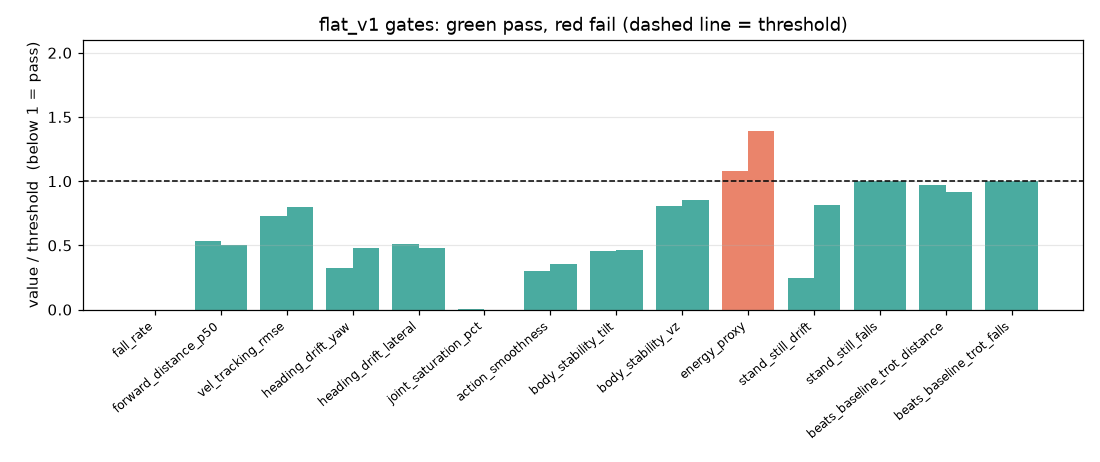
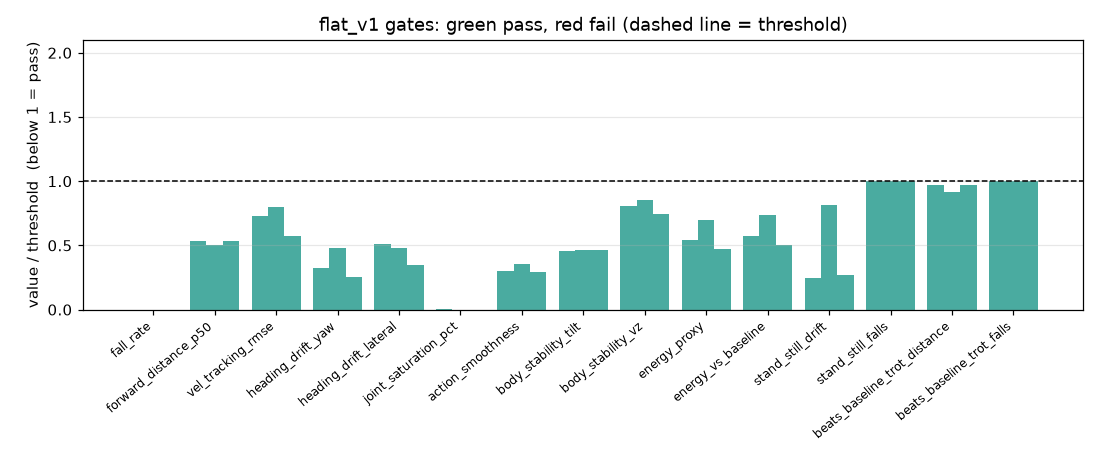
docs: gate audit + loop fixes chapter, run 3 (warm start) in the ledger, figures re-rendered; render_docs scans run dirs

diff --git a/documentation/index.html b/documentation/index.html
@@ -258,13 +258,13 @@ figcaption{margin-top:.8rem;font-size:.82rem;color:var(--ink-soft);text-align:ce
       <h1>Bittle Agent — Working Documentation</h1>
       <p class="sub">The living record of the Petoi Bittle X control plane and its RL walking trainer: what was built, every training run, what is verified, what is still open.</p>
     </div>
-    <span class="stamp"><span class="freshness lede" data-ts="2026-09-07T23:50:40.190333+00:00"></span>generated 2026-09-07 23:50 UTC · do not edit by hand</span>
+    <span class="stamp"><span class="freshness lede" data-ts="2026-09-08T00:09:57.811074+00:00"></span>generated 2026-09-08 00:09 UTC · do not edit by hand</span>
   </div>
 </header>
 <div class="shell">
   <nav class="toc" aria-label="Contents">
     <h2>Contents</h2>
-    <ol><li class="part" title="">Orientation</li><li><a class="chapter" href="#how-to-use-this"><span class="num">1</span><span class="title-text">How to use this</span><span class="status s-muted">reference</span><span class="freshness badge" data-ts="2026-09-07T16:43:13-07:00"></span></a></li><li><a class="sub" href="#the-rule">The rule</a></li><li><a class="sub" href="#writing-a-chapter">Writing a chapter</a></li><li><a class="sub" href="#building-and-reading-it">Building and reading it</a></li><li><a class="sub" href="#what-does-not-belong-here">What does not belong here</a></li><li class="part" title="">RL walking trainer</li><li><a class="chapter" href="#rl-walking-training"><span class="num">2</span><span class="title-text">Teaching Bittle to walk: the RL training loop</span><span class="status s-ok">shipped</span><span class="freshness badge" data-ts="2026-09-07T23:50:40.190333+00:00"></span></a></li><li><a class="sub" href="#1-what-was-built">1. What was built</a></li><li><a class="sub" href="#2-the-simulated-robot">2. The simulated robot</a></li><li><a class="sub" href="#3-what-the-policy-sees-and-does">3. What the policy sees and does</a></li><li><a class="sub" href="#4-training-results-so-far">4. Training results so far</a></li><li><a class="sub" href="#5-the-agents-loop-as-it-actually-happened">5. The agent&#x27;s loop, as it actually happened</a></li><li><a class="sub" href="#6-running-it">6. Running it</a></li><li><a class="sub" href="#7-sizing-and-box-choice">7. Sizing and box choice</a></li><li><a class="sub" href="#8-not-done-yet">8. Not done yet</a></li><li><a class="chapter" href="#training-run-ledger"><span class="num">3</span><span class="title-text">Training run ledger</span><span class="status s-ok">shipped</span><span class="freshness badge" data-ts="2026-09-07T16:43:13-07:00"></span></a></li><li><a class="sub" href="#runs-in-the-store-2-runs">Runs in the store (2 runs)</a></li><li><a class="sub" href="#runs-outside-the-store-development-smoke-tests-2026-09-07">Runs outside the store (development smoke tests, 2026-09-07)</a></li></ol>
+    <ol><li class="part" title="">Orientation</li><li><a class="chapter" href="#how-to-use-this"><span class="num">1</span><span class="title-text">How to use this</span><span class="status s-muted">reference</span><span class="freshness badge" data-ts="2026-09-07T16:43:13-07:00"></span></a></li><li><a class="sub" href="#the-rule">The rule</a></li><li><a class="sub" href="#writing-a-chapter">Writing a chapter</a></li><li><a class="sub" href="#building-and-reading-it">Building and reading it</a></li><li><a class="sub" href="#what-does-not-belong-here">What does not belong here</a></li><li class="part" title="">RL walking trainer</li><li><a class="chapter" href="#rl-walking-training"><span class="num">2</span><span class="title-text">Teaching Bittle to walk: the RL training loop</span><span class="status s-ok">shipped</span><span class="freshness badge" data-ts="2026-09-08T00:00:01.899894+00:00"></span></a></li><li><a class="sub" href="#1-what-was-built">1. What was built</a></li><li><a class="sub" href="#2-the-simulated-robot">2. The simulated robot</a></li><li><a class="sub" href="#3-what-the-policy-sees-and-does">3. What the policy sees and does</a></li><li><a class="sub" href="#4-training-results-so-far">4. Training results so far</a></li><li><a class="sub" href="#5-the-agents-loop-as-it-actually-happened">5. The agent&#x27;s loop, as it actually happened</a></li><li><a class="sub" href="#6-running-it">6. Running it</a></li><li><a class="sub" href="#7-sizing-and-box-choice">7. Sizing and box choice</a></li><li><a class="sub" href="#8-not-done-yet">8. Not done yet</a></li><li><a class="chapter" href="#training-run-ledger"><span class="num">3</span><span class="title-text">Training run ledger</span><span class="status s-ok">shipped</span><span class="freshness badge" data-ts="2026-09-08T00:09:57.811074+00:00"></span></a></li><li><a class="sub" href="#runs-in-the-store-3-runs">Runs in the store (3 runs)</a></li><li><a class="sub" href="#runs-outside-the-store-development-smoke-tests-2026-09-07">Runs outside the store (development smoke tests, 2026-09-07)</a></li><li><a class="chapter" href="#gate-audit-and-loop-fixes-2026-09-07"><span class="num">4</span><span class="title-text">The gate that failed was the gate, not the robot (audit + loop fixes)</span><span class="status s-ok">shipped</span><span class="freshness badge" data-ts="2026-09-08T00:05:50.991932+00:00"></span></a></li><li><a class="sub" href="#the-question">The question</a></li><li><a class="sub" href="#finding-1-the-energy-threshold-was-a-guess-and-the-plan-said-so">Finding 1: the energy threshold was a guess, and the plan said so</a></li><li><a class="sub" href="#finding-2-the-llm-was-told-raise-the-energy-penalty-but-not-by-how-much">Finding 2: the LLM was told &quot;raise the energy penalty&quot; but not by how much</a></li><li><a class="sub" href="#finding-3-every-cycle-re-trained-from-scratch">Finding 3: every cycle re-trained from scratch</a></li><li><a class="sub" href="#finding-4-a-flaky-service-test-was-a-real-race">Finding 4: a flaky service test was a real race</a></li><li><a class="sub" href="#run-3-the-fixes-in-one-cycle">Run 3: the fixes in one cycle</a></li><li><a class="sub" href="#how-to-read-the-results-page-from-now-on">How to read the results page from now on</a></li></ol>
   </nav>
   <main><div class="part-divider"><h2>Orientation</h2></div>
 <section class="chapter" id="how-to-use-this"><span class="freshness" data-ts="2026-09-07T16:43:13-07:00"></span><p class="eyebrow">Orientation<span class="sep">·</span>Chapter 1</p><p class="statusbar"><span class="status s-muted">reference</span><span class="meta-pill">updated 2026-09-07</span></p><h1 id="how-to-use-this">How to use this</h1>
@@ -311,7 +311,7 @@ python3 documentation/serve.py --open        # read it locally on :8900</code></
 <li><strong>Anything in a repo that serves no documentation.</strong> Write it where it can be read, and name the other service in the text instead.</li>
 </ul></section>
 <div class="part-divider"><h2>RL walking trainer</h2></div>
-<section class="chapter" id="rl-walking-training"><span class="freshness" data-ts="2026-09-07T23:50:40.190333+00:00"></span><p class="eyebrow">RL walking trainer<span class="sep">·</span>Chapter 2</p><p class="statusbar"><span class="status s-ok">shipped</span><span class="meta-pill">updated 2026-09-07</span></p><h1 id="teaching-bittle-to-walk-the-rl-training-loop">Teaching Bittle to walk: the RL training loop</h1>
+<section class="chapter" id="rl-walking-training"><span class="freshness" data-ts="2026-09-08T00:00:01.899894+00:00"></span><p class="eyebrow">RL walking trainer<span class="sep">·</span>Chapter 2</p><p class="statusbar"><span class="status s-ok">shipped</span><span class="meta-pill">updated 2026-09-07</span></p><h1 id="teaching-bittle-to-walk-the-rl-training-loop">Teaching Bittle to walk: the RL training loop</h1>
 <p><em>Status 2026-09-07. Everything below was measured on the WSL2 dev PC (RTX 3090 Ti) unless marked otherwise.</em></p>
 <p>Yes — the walking training has run. Two policies exist, both walk, and the GLM agent drove the second one itself. This page is the reference for how the loop works, what the numbers mean, and how to run it.</p>
 <div class="scroll-x"><table><thead><tr><th>Petoi trot (firmware gait, replayed)</th><th>Policy r1, 40M steps (defaults)</th><th>Policy r2, GLM's own cycle</th></tr></thead><tbody><tr><td><img src="media/rl-training/baseline_opencat_trot.gif" alt=""></td><td><img src="media/rl-training/policy_r1-defaults-40M.gif" alt=""></td><td><img src="media/rl-training/policy_r2-energy-fix-15M.gif" alt=""></td></tr></tbody></table></div>
@@ -345,9 +345,9 @@ bittle-agent  (NAS :8008, 512 MB, no GPU)  ──HTTP──▶  bittle-trainer  
 <hr>
 <h2 id="4-training-results-so-far">4. Training results so far</h2>
 <p><img src="media/rl-training/training_curves.png" alt="training curves"></p>
-<div class="scroll-x"><table><thead><tr><th>run</th><th>steps</th><th>wall-clock</th><th>throughput</th><th>gates</th><th>distance / 10 s</th><th>falls</th></tr></thead><tbody><tr><td>smoke (1024 envs)</td><td>3M</td><td>137 s</td><td>43k steps/s</td><td>—</td><td>stands, then falls under the walk command</td><td>—</td></tr><tr><td><strong>r1-defaults-40M</strong></td><td>40M</td><td><strong>15 min</strong></td><td>~50k steps/s</td><td><strong>13 / 14</strong></td><td><strong>1.13 m</strong></td><td>0 / 20</td></tr><tr><td><strong>r2-energy-fix-15M</strong> (GLM's patch)</td><td>15M</td><td>7.3 min</td><td>34k steps/s</td><td>13 / 14</td><td>1.19 m</td><td>0 / 20</td></tr><tr><td>OpenCat <code>trF</code> baseline</td><td>—</td><td>—</td><td>—</td><td>8 / 14</td><td>0.997 m</td><td>0 / 20</td></tr></tbody></table></div>
+<div class="scroll-x"><table><thead><tr><th>run</th><th>steps</th><th>wall-clock</th><th>throughput</th><th>gates</th><th>distance / 10 s</th><th>falls</th></tr></thead><tbody><tr><td>smoke (1024 envs)</td><td>3M</td><td>137 s</td><td>43k steps/s</td><td>—</td><td>stands, then falls under the walk command</td><td>—</td></tr><tr><td><strong>r1-defaults-40M</strong></td><td>40M</td><td><strong>15 min</strong></td><td>~50k steps/s</td><td><strong>15 / 15</strong> (13/14 under gates 1.0.0)</td><td><strong>1.13 m</strong></td><td>0 / 20</td></tr><tr><td><strong>r2-energy-fix-15M</strong> (GLM's patch)</td><td>15M</td><td>7.3 min</td><td>34k steps/s</td><td>15 / 15 (13/14 under 1.0.0)</td><td>1.19 m</td><td>0 / 20</td></tr><tr><td>OpenCat <code>trF</code> baseline</td><td>—</td><td>—</td><td>—</td><td>8 / 14</td><td>0.997 m</td><td>0 / 20</td></tr></tbody></table></div>
 <p><img src="media/rl-training/gates.png" alt="gates"></p>
-<p>Both policies fail exactly one gate, <code>energy_proxy</code> (1.08 W and 1.39 W against a 1.0 W limit). That is the signal the loop is designed to hand back to the agent. The GLM cycle raised the energy penalty ×10 <strong>and</strong> raised the foot-air-time reward; the second change won, the gait got longer and faster, and energy went up. GLM's own report says so and proposes reverting foot-air-time and raising the energy penalty ×4 next.</p>
+<p>Under the original gate suite (1.0.0) both policies failed exactly one gate, <code>energy_proxy</code> (1.08 W and 1.39 W against a 1.0 W limit). The <a href="#the-gate-that-failed-was-the-gate-not-the-robot-audit-loop-fixes">audit</a> found the limit was an uncalibrated guess: the firmware trot itself measures 3.79 W on the same proxy. Under the calibrated suite (1.1.0) both runs pass every evaluated gate. The gate chart below is the 1.0.0 report, kept as the record of what the agent was reacting to. The GLM cycle raised the energy penalty ×10 <strong>and</strong> raised the foot-air-time reward; the second change won, the gait got longer and faster, and energy went up. GLM's own report says so and proposes reverting foot-air-time and raising the energy penalty next.</p>
 <p>The learned gait is a trot — diagonal pairs land together:</p>
 <p><img src="media/rl-training/gait_diagram.png" alt="gait diagram"></p>
 <p>Before training, for contrast (the 3M-step smoke policy falls as soon as it is asked to walk):</p>
@@ -393,19 +393,19 @@ MUJOCO_GL=osmesa PYTHONPATH=$PWD .venv-trainer/bin/python trainer/scripts/render
 <li>Curriculum stages 1–2 (turning, lateral, pushes), the DR-sweep gate and the GPU-vs-CPU consistency gate are implemented but have not been exercised by a real run.</li>
 <li>The 3D viewer rollout playback was checked on the JSON, not by eye.</li>
 </ul></section>
-<section class="chapter" id="training-run-ledger"><span class="freshness" data-ts="2026-09-07T16:43:13-07:00"></span><p class="eyebrow">RL walking trainer<span class="sep">·</span>Chapter 3</p><p class="statusbar"><span class="status s-ok">shipped</span><span class="meta-pill">updated 2026-09-07</span></p><h1 id="training-run-ledger">Training run ledger</h1>
+<section class="chapter" id="training-run-ledger"><span class="freshness" data-ts="2026-09-08T00:09:57.811074+00:00"></span><p class="eyebrow">RL walking trainer<span class="sep">·</span>Chapter 3</p><p class="statusbar"><span class="status s-ok">shipped</span><span class="meta-pill">updated 2026-09-07</span></p><h1 id="training-run-ledger">Training run ledger</h1>
 <p>Every policy training run recorded by the trainer, newest last. Generated from <code>runs/</code> by <code>trainer/scripts/render_docs.py --ledger</code>; rerun it after training and commit the result. Distances are the flat_v1 protocol (20 seeded episodes, 10 s, 0.12 m/s command, CPU MuJoCo on the mesh model). Score = gates passed + 0.5·min(distance, 1) − fall rate.</p>
-<h2 id="runs-in-the-store-2-runs">Runs in the store (2 runs)</h2>
-<div class="scroll-x"><table><thead><tr><th>#</th><th>run</th><th>started</th><th>parent</th><th>steps</th><th>envs</th><th>wall-clock</th><th>gates</th><th>distance p50</th><th>falls</th><th>score</th><th>clip</th></tr></thead><tbody><tr><td>1</td><td><code>20260907-135830-42943f</code>&lt;br&gt;r1-defaults-40M</td><td>2026-09-07T20:58</td><td>—</td><td>40M</td><td>2048</td><td>15.0 min</td><td>13/14</td><td>1.13 m</td><td>0.00</td><td>13.5</td><td><a href="media/rl-training/policy_r1-defaults-40M.gif">gif</a></td></tr><tr><td>2</td><td><code>20260907-142153-d17a72</code>&lt;br&gt;r2-energy-fix-15M</td><td>2026-09-07T21:21</td><td>20260907-135830-42943f</td><td>15M</td><td>2048</td><td>7.3 min</td><td>13/14</td><td>1.19 m</td><td>0.00</td><td>13.5</td><td><a href="media/rl-training/policy_r2-energy-fix-15M.gif">gif</a></td></tr></tbody></table></div>
+<h2 id="runs-in-the-store-3-runs">Runs in the store (3 runs)</h2>
+<div class="scroll-x"><table><thead><tr><th>#</th><th>run</th><th>started</th><th>parent</th><th>steps</th><th>envs</th><th>wall-clock</th><th>gates</th><th>distance p50</th><th>falls</th><th>score</th><th>clip</th></tr></thead><tbody><tr><td>1</td><td><code>20260907-135830-42943f</code>&lt;br&gt;r1-defaults-40M</td><td>2026-09-07T20:58</td><td>—</td><td>40M</td><td>2048</td><td>15.0 min</td><td>15/15</td><td>1.13 m</td><td>0.00</td><td>15.5</td><td><a href="media/rl-training/policy_r1-defaults-40M.gif">gif</a></td></tr><tr><td>2</td><td><code>20260907-142153-d17a72</code>&lt;br&gt;r2-energy-fix-15M</td><td>2026-09-07T21:21</td><td>20260907-135830-42943f</td><td>15M</td><td>2048</td><td>7.3 min</td><td>15/15</td><td>1.19 m</td><td>0.00</td><td>15.5</td><td><a href="media/rl-training/policy_r2-energy-fix-15M.gif">gif</a></td></tr><tr><td>3</td><td><code>20260907-165840-e406b4</code>&lt;br&gt;r3-energy-x100-warm-10M</td><td>2026-09-07T23:58</td><td>20260907-135830-42943f</td><td>10M</td><td>2048</td><td>6.4 min</td><td>15/15</td><td>1.13 m</td><td>0.00</td><td>15.5</td><td><a href="media/rl-training/policy_r3-energy-x100-warm-10M.gif">gif</a></td></tr></tbody></table></div>
 <h3 id="run-1-r1-defaults-40m-20260907-135830-42943f">Run 1: r1-defaults-40M (<code>20260907-135830-42943f</code>)</h3>
 <ul>
 <li><strong>Status:</strong> done</li>
 <li><strong>Hypothesis / notes:</strong> first full run through the service (servo model kp10/0.25Nm)</li>
 <li><strong>Config vs defaults:</strong></li>
-<li>(defaults)</li>
+<li><code>init_from_parent</code>: True → None</li>
 <li><strong>Training:</strong> 40M steps, 2048 envs, 900 s, 44,419 steps/s (warp); eval reward 16 → 762</li>
-<li><strong>Gates:</strong> 13/14; failing: energy_proxy (1.082 &lt;= 1.0)</li>
-<li><strong>Reflection:</strong> BENCHMARK FAILED 13/14 gates (score 13.50). Fell in 0/20 episodes. Median distance 1.13 m in 10.0 s. Velocity tracking RMSE 0.037 m/s. FAIL energy_proxy: 1.082 &lt;= 1.0 W -&gt; raise energy penalty 4 gates not evaluated (stage/group/metric).</li>
+<li><strong>Gates:</strong> 15/15; failing: none</li>
+<li><strong>Reflection:</strong> BENCHMARK PASSED 15/15 gates (score 15.50). Fell in 0/20 episodes. Median distance 1.13 m in 10.0 s. Velocity tracking RMSE 0.037 m/s. 4 gates not evaluated (stage/group/metric). All evaluated gates pass. Consider raising curriculum_stage or requesting dr_sweep.</li>
 </ul>
 <h3 id="run-2-r2-energy-fix-15m-20260907-142153-d17a72">Run 2: r2-energy-fix-15M (<code>20260907-142153-d17a72</code>)</h3>
 <ul>
@@ -416,12 +416,53 @@ MUJOCO_GL=osmesa PYTHONPATH=$PWD .venv-trainer/bin/python trainer/scripts/render
 <li><code>reward.weights.energy</code>: -0.0005 → -0.005</li>
 <li><code>reward.weights.feet_air_time</code>: 0.1 → 0.25</li>
 <li><strong>Training:</strong> 15M steps, 2048 envs, 436 s, 34,401 steps/s (warp); eval reward 16 → 688</li>
-<li><strong>Gates:</strong> 13/14; failing: energy_proxy (1.394 &lt;= 1.0)</li>
-<li><strong>Reflection:</strong> BENCHMARK FAILED 13/14 gates (score 13.50). Fell in 0/20 episodes. Median distance 1.19 m in 10.0 s. Velocity tracking RMSE 0.040 m/s. FAIL energy_proxy: 1.394 &lt;= 1.0 W -&gt; raise energy penalty 4 gates not evaluated (stage/group/metric).</li>
+<li><strong>Gates:</strong> 15/15; failing: none</li>
+<li><strong>Reflection:</strong> BENCHMARK PASSED 15/15 gates (score 15.50). Fell in 0/20 episodes. Median distance 1.19 m in 10.0 s. Velocity tracking RMSE 0.040 m/s. 4 gates not evaluated (stage/group/metric). All evaluated gates pass. Consider raising curriculum_stage or requesting dr_sweep.</li>
+</ul>
+<h3 id="run-3-r3-energy-x100-warm-10m-20260907-165840-e406b4">Run 3: r3-energy-x100-warm-10M (<code>20260907-165840-e406b4</code>)</h3>
+<ul>
+<li><strong>Status:</strong> done</li>
+<li><strong>Hypothesis / notes:</strong> energy weight x100 (its share was 0.05% of reward); warm start from r1; 10M steps</li>
+<li><strong>Config vs parent 20260907-135830-42943f:</strong></li>
+<li><code>init_from_parent</code>: None → True</li>
+<li><code>ppo.num_timesteps</code>: 40000000 → 10000000</li>
+<li><code>reward.weights.energy</code>: -0.0005 → -0.05</li>
+<li><strong>Training:</strong> 10M steps, 2048 envs, 381 s, 26,217 steps/s (warp); eval reward 741 → 761</li>
+<li><strong>Gates:</strong> 15/15; failing: none</li>
+<li><strong>Reflection:</strong> BENCHMARK PASSED 15/15 gates (score 15.50). Fell in 0/20 episodes. Median distance 1.13 m in 10.0 s. Velocity tracking RMSE 0.028 m/s. 4 gates not evaluated (stage/group/metric). All evaluated gates pass. Consider raising curriculum_stage or requesting dr_sweep.</li>
 </ul>
 <h2 id="runs-outside-the-store-development-smoke-tests-2026-09-07">Runs outside the store (development smoke tests, 2026-09-07)</h2>
 <div class="scroll-x"><table><thead><tr><th>run</th><th>steps</th><th>envs</th><th>result</th><th>lesson</th></tr></thead><tbody><tr><td>smoke1</td><td>0.3M</td><td>256</td><td>reward 344 → 324, no learning</td><td>first end-to-end PPO run; too short to judge</td></tr><tr><td>crippled 40M (cancelled)</td><td>—</td><td>2048</td><td>cancelled after 80 s</td><td>servos could not move under the torque cap (kp 40, damping 1.5): trot replay 0.000 m</td></tr><tr><td>smoke2</td><td>3M</td><td>1024</td><td>reward 58 → 452, stands, falls when asked to walk (clip on the main page)</td><td>pipeline learns; 3M steps is ~6 episodes per env</td></tr></tbody></table></div>
-<p>The first two ran on the original servo parameters, which is why they are not in the store: the model was rebuilt with a torque-limited servo (kp 10, ±0.25 N·m, damping 0.05) before run 1.</p></section></main>
+<p>The first two ran on the original servo parameters, which is why they are not in the store: the model was rebuilt with a torque-limited servo (kp 10, ±0.25 N·m, damping 0.05) before run 1.</p></section>
+<section class="chapter" id="gate-audit-and-loop-fixes-2026-09-07"><span class="freshness" data-ts="2026-09-08T00:05:50.991932+00:00"></span><p class="eyebrow">RL walking trainer<span class="sep">·</span>Chapter 4</p><p class="statusbar"><span class="status s-ok">shipped</span><span class="meta-pill">updated 2026-09-07</span></p><h1 id="the-gate-that-failed-was-the-gate-not-the-robot-audit-loop-fixes">The gate that failed was the gate, not the robot (audit + loop fixes)</h1>
+<h2 id="the-question">The question</h2>
+<p>Runs 1 and 2 both walk (1.13 m and 1.19 m in 10 s, no falls, faster than the firmware trot), yet both showed "13/14 gates, energy_proxy FAILED". Is training working or not? <strong>It is working. The one failing gate was miscalibrated, and the harness was giving the LLM feedback it could not act on.</strong> Both are fixed.</p>
+<h2 id="finding-1-the-energy-threshold-was-a-guess-and-the-plan-said-so">Finding 1: the energy threshold was a guess, and the plan said so</h2>
+<p><code>energy_proxy</code> is the mean of |torque × joint speed| over all eight servos, in watts. The threshold of 1.0 W was written into the plan as an "initial threshold, calibrated once against the trot baseline before freezing". That calibration step was skipped. Measured on the same protocol:</p>
+<div class="scroll-x"><table><thead><tr><th>gait</th><th>energy proxy</th><th>distance / 10 s</th></tr></thead><tbody><tr><td>firmware trot (<code>opencat_trF</code>, replayed)</td><td><strong>3.79 W</strong></td><td>0.997 m</td></tr><tr><td>firmware walk (<code>opencat_wkF</code>)</td><td>2.79 W</td><td>0.745 m</td></tr><tr><td>policy r1</td><td>1.08 W</td><td>1.13 m</td></tr><tr><td>policy r2</td><td>1.39 W</td><td>1.19 m</td></tr></tbody></table></div>
+<p>The learned policies already use a quarter to a third of the firmware trot's power while walking further. A gate that fails them is not measuring a defect.</p>
+<p><strong>Fix:</strong> gate suite <code>flat_v1</code> bumped to <strong>1.1.0</strong>: <code>energy_proxy ≤ 2.0 W</code> (absolute sanity cap) and a new <code>energy_vs_baseline ≤ 0.5</code> (a learned gait must use at most half the trot's power). Re-benchmarked under 1.1.0, <strong>r1 and r2 pass 15/15 evaluated gates</strong>. The leaderboard only ranks same-version reports, so both were re-run; the 1.0.0 reports are kept on disk.</p>
+<h2 id="finding-2-the-llm-was-told-raise-the-energy-penalty-but-not-by-how-much">Finding 2: the LLM was told "raise the energy penalty" but not by how much</h2>
+<p>Reward is a per-step weighted sum. In run 1 the energy term contributed <strong>−0.4 of a 762-point episode reward (0.05 %)</strong>; velocity tracking contributed 580. A term that small is invisible to the optimiser, so GLM's ×10 change (still 0.5 %) could not move behaviour, and its second change (foot-air-time ×2.5) is what actually changed the gait. GLM diagnosed that correctly afterwards, but the harness should have said it first.</p>
+<p><strong>Fix:</strong> every gate report now carries <strong>context</strong> — for each gate the parent run's value and the firmware trot's value, plus the reward-term breakdown as a share of the total. The reflection text uses it:</p>
+<blockquote><p>FAIL energy_proxy: 2.500 &lt;= 2.0 W (parent 1.080, firmware trot 3.790) → … The 'energy' term is only 0.07 % of the total reward, so the optimiser barely sees it: multiply its weight by ~30x (to ~2 % share), not by 2-10x.</p></blockquote>
+<p>A new tool, <code>bittle_diagnose_run</code>, returns the same table on demand, and the training protocol tells GLM to call it before choosing a patch and to move weak terms by 10–100×.</p>
+<h2 id="finding-3-every-cycle-re-trained-from-scratch">Finding 3: every cycle re-trained from scratch</h2>
+<p>A 15M-step child run started from a random policy and spent most of its budget re-learning to walk. Child runs now <strong>warm-start from the parent's policy and observation normaliser</strong> (<code>init_from_parent</code>, default on, same network shape required), and the protocol asks for 10M-step cycles. Measured on run 3 below.</p>
+<h2 id="finding-4-a-flaky-service-test-was-a-real-race">Finding 4: a flaky service test was a real race</h2>
+<p><code>RunStore.update_state</code> is a read-modify-write on <code>state.json</code>; the job loop, the fake-job threads and the request handlers all call it, and one lost update made the contract test fail under CPU contention. It is now serialised with a lock, and the reaper's "benchmark exited without a report" rule only applies to benchmark processes.</p>
+<h2 id="run-3-the-fixes-in-one-cycle">Run 3: the fixes in one cycle</h2>
+<p><code>r3-energy-x100-warm-10M</code>: base = run 1, energy weight −0.0005 → −0.05 (×100, the size the reward share called for), 10M steps, warm-started.</p>
+<div class="scroll-x"><table><thead><tr><th></th><th>run 1 (from scratch, 40M)</th><th>run 3 (warm start, 10M)</th></tr></thead><tbody><tr><td>first eval reward</td><td>16</td><td><strong>741</strong> (the parent's policy, before any training)</td></tr><tr><td>wall-clock</td><td>15 min</td><td><strong>6 min</strong></td></tr><tr><td>energy proxy</td><td>1.08 W</td><td><strong>0.95 W</strong> (0.25× the firmware trot)</td></tr><tr><td>energy term's reward share</td><td>0.05 %</td><td>3.6 %</td></tr><tr><td>distance / 10 s</td><td>1.13 m</td><td>1.13 m</td></tr><tr><td>velocity tracking RMSE</td><td>0.037 m/s</td><td><strong>0.028 m/s</strong></td></tr><tr><td>gates (1.1.0)</td><td>15 / 15</td><td>15 / 15</td></tr></tbody></table></div>
+<p>One cycle, one hypothesis, a third of the time, and the metric the weight targets moved while nothing else regressed. That is what a working loop looks like: the curve is flat because the run starts converged; the gate table is where the change shows.</p>
+<p><img src="media/rl-training/policy_r3-energy-x100-warm-10M.gif" alt="run 3"></p>
+<h2 id="how-to-read-the-results-page-from-now-on">How to read the results page from now on</h2>
+<ul>
+<li><strong>Curves</strong> (reward, distance during training) answer "is this run still learning". They do not compare runs: each run's reward is scored by its own weights.</li>
+<li><strong>Gate table</strong> on the fixed CPU protocol compares runs. Same seeds, same model, same command.</li>
+<li><strong>Reward shares</strong> (<code>bittle_diagnose_run</code>) tell you which weight is worth touching.</li>
+<li>The next lever after flat-ground gates is not harder terrain yet: run the <strong>DR sweep</strong> (<code>dr_sweep</code>) to check robustness to friction, payload, servo strength and latency, then <strong>curriculum stage 1</strong> (turning, 0–0.25 m/s), then stage 2 (lateral, pushes). Terrain (the 18 mm mini-stairs from the obstacle course, as box geoms) comes after that — it is a new gate suite, not a tweak.</li>
+</ul></section></main>
 </div>
 <script>
 /* Relative "updated N ago" labels. Rendered at VIEW time, not build time: a

diff --git a/trainer/scripts/render_docs.py b/trainer/scripts/render_docs.py
@@ -28,6 +28,16 @@ from trainer.policy.mlp import NumpyPolicy  # noqa: E402
 W, H, FPS, SECONDS = 300, 225, 12, 5.0
 
 
+def _scan_runs(runs_dir: Path) -> list[dict]:
+    """Read every run's state.json directly; index.json is only refreshed by the service."""
+    out = []
+    for d in runs_dir.iterdir():
+        if d.is_dir() and (d / "state.json").is_file():
+            st = json.loads((d / "state.json").read_text())
+            out.append({"run_id": d.name, "status": st.get("status"), "created": st.get("created")})
+    return out
+
+
 def _camera(d: mujoco.MjData, m: mujoco.MjModel) -> mujoco.MjvCamera:
     cam = mujoco.MjvCamera()
     cam.type = mujoco.mjtCamera.mjCAMERA_FREE
@@ -204,8 +214,7 @@ def ledger(runs_dir: Path, out_md: Path, media_rel: str = "media/rl-training") -
 
     from trainer.config import TrainConfig, config_diff
 
-    idx = json.loads((runs_dir / "index.json").read_text())["runs"]
-    runs = sorted(idx, key=lambda r: r["created"] or "")
+    runs = sorted(_scan_runs(runs_dir), key=lambda r: r["created"] or "")
     defaults = TrainConfig().model_dump(mode="json")
     rows, details = [], []
     for i, r in enumerate(runs, 1):
@@ -270,8 +279,7 @@ def main() -> int:
     if a.ledger:
         ledger(runs_dir, Path(a.ledger))
         return 0
-    idx = json.loads((runs_dir / "index.json").read_text())["runs"]
-    run_ids = a.runs or sorted(r["run_id"] for r in idx if r["status"] == "done")
+    run_ids = a.runs or [r["run_id"] for r in sorted(_scan_runs(runs_dir), key=lambda r: r["created"] or "") if r["status"] == "done"]
     cfg = TrainConfig()
     summary = {}
     cmd = [0.12, 0.0, 0.0]

diff --git a/documentation/chapters/03-gate-audit-and-loop-fixes-2026-09-07.md b/documentation/chapters/03-gate-audit-and-loop-fixes-2026-09-07.md
@@ -1,0 +1,96 @@
+---
+part: RL walking trainer
+status: shipped
+updated: 2026-09-07
+---
+
+# The gate that failed was the gate, not the robot (audit + loop fixes)
+
+## The question
+
+Runs 1 and 2 both walk (1.13 m and 1.19 m in 10 s, no falls, faster than the firmware trot), yet both showed
+"13/14 gates, energy_proxy FAILED". Is training working or not? **It is working. The one failing gate was
+miscalibrated, and the harness was giving the LLM feedback it could not act on.** Both are fixed.
+
+## Finding 1: the energy threshold was a guess, and the plan said so
+
+`energy_proxy` is the mean of |torque × joint speed| over all eight servos, in watts. The threshold of
+1.0 W was written into the plan as an "initial threshold, calibrated once against the trot baseline before
+freezing". That calibration step was skipped. Measured on the same protocol:
+
+| gait | energy proxy | distance / 10 s |
+|---|---|---|
+| firmware trot (`opencat_trF`, replayed) | **3.79 W** | 0.997 m |
+| firmware walk (`opencat_wkF`) | 2.79 W | 0.745 m |
+| policy r1 | 1.08 W | 1.13 m |
+| policy r2 | 1.39 W | 1.19 m |
+
+The learned policies already use a quarter to a third of the firmware trot's power while walking further.
+A gate that fails them is not measuring a defect.
+
+**Fix:** gate suite `flat_v1` bumped to **1.1.0**: `energy_proxy ≤ 2.0 W` (absolute sanity cap) and a new
+`energy_vs_baseline ≤ 0.5` (a learned gait must use at most half the trot's power). Re-benchmarked under
+1.1.0, **r1 and r2 pass 15/15 evaluated gates**. The leaderboard only ranks same-version reports, so both
+were re-run; the 1.0.0 reports are kept on disk.
+
+## Finding 2: the LLM was told "raise the energy penalty" but not by how much
+
+Reward is a per-step weighted sum. In run 1 the energy term contributed **−0.4 of a 762-point episode
+reward (0.05 %)**; velocity tracking contributed 580. A term that small is invisible to the optimiser, so
+GLM's ×10 change (still 0.5 %) could not move behaviour, and its second change (foot-air-time ×2.5) is what
+actually changed the gait. GLM diagnosed that correctly afterwards, but the harness should have said it first.
+
+**Fix:** every gate report now carries **context** — for each gate the parent run's value and the firmware
+trot's value, plus the reward-term breakdown as a share of the total. The reflection text uses it:
+
+> FAIL energy_proxy: 2.500 <= 2.0 W (parent 1.080, firmware trot 3.790) → … The 'energy' term is only
+> 0.07 % of the total reward, so the optimiser barely sees it: multiply its weight by ~30x (to ~2 % share),
+> not by 2-10x.
+
+A new tool, `bittle_diagnose_run`, returns the same table on demand, and the training protocol tells GLM to
+call it before choosing a patch and to move weak terms by 10–100×.
+
+## Finding 3: every cycle re-trained from scratch
+
+A 15M-step child run started from a random policy and spent most of its budget re-learning to walk. Child
+runs now **warm-start from the parent's policy and observation normaliser** (`init_from_parent`, default on,
+same network shape required), and the protocol asks for 10M-step cycles. Measured on run 3 below.
+
+## Finding 4: a flaky service test was a real race
+
+`RunStore.update_state` is a read-modify-write on `state.json`; the job loop, the fake-job threads and the
+request handlers all call it, and one lost update made the contract test fail under CPU contention. It is
+now serialised with a lock, and the reaper's "benchmark exited without a report" rule only applies to
+benchmark processes.
+
+## Run 3: the fixes in one cycle
+
+`r3-energy-x100-warm-10M`: base = run 1, energy weight −0.0005 → −0.05 (×100, the size the reward share
+called for), 10M steps, warm-started.
+
+| | run 1 (from scratch, 40M) | run 3 (warm start, 10M) |
+|---|---|---|
+| first eval reward | 16 | **741** (the parent's policy, before any training) |
+| wall-clock | 15 min | **6 min** |
+| energy proxy | 1.08 W | **0.95 W** (0.25× the firmware trot) |
+| energy term's reward share | 0.05 % | 3.6 % |
+| distance / 10 s | 1.13 m | 1.13 m |
+| velocity tracking RMSE | 0.037 m/s | **0.028 m/s** |
+| gates (1.1.0) | 15 / 15 | 15 / 15 |
+
+One cycle, one hypothesis, a third of the time, and the metric the weight targets moved while nothing else
+regressed. That is what a working loop looks like: the curve is flat because the run starts converged; the
+gate table is where the change shows.
+
+![run 3](media/rl-training/policy_r3-energy-x100-warm-10M.gif)
+
+## How to read the results page from now on
+
+- **Curves** (reward, distance during training) answer "is this run still learning". They do not compare runs:
+  each run's reward is scored by its own weights.
+- **Gate table** on the fixed CPU protocol compares runs. Same seeds, same model, same command.
+- **Reward shares** (`bittle_diagnose_run`) tell you which weight is worth touching.
+- The next lever after flat-ground gates is not harder terrain yet: run the **DR sweep** (`dr_sweep`) to check
+  robustness to friction, payload, servo strength and latency, then **curriculum stage 1** (turning, 0–0.25 m/s),
+  then stage 2 (lateral, pushes). Terrain (the 18 mm mini-stairs from the obstacle course, as box geoms) comes
+  after that — it is a new gate suite, not a tweak.

diff --git a/documentation/chapters/02-training-run-ledger.md b/documentation/chapters/02-training-run-ledger.md
@@ -11,22 +11,23 @@ Every policy training run recorded by the trainer, newest last. Generated from `
 Distances are the flat_v1 protocol (20 seeded episodes, 10 s, 0.12 m/s command, CPU MuJoCo on the
 mesh model). Score = gates passed + 0.5·min(distance, 1) − fall rate.
 
-## Runs in the store (2 runs)
+## Runs in the store (3 runs)
 
 | # | run | started | parent | steps | envs | wall-clock | gates | distance p50 | falls | score | clip |
 |---|---|---|---|---|---|---|---|---|---|---|---|
-| 1 | `20260907-135830-42943f`<br>r1-defaults-40M | 2026-09-07T20:58 | — | 40M | 2048 | 15.0 min | 13/14 | 1.13 m | 0.00 | 13.5 | [gif](media/rl-training/policy_r1-defaults-40M.gif) |
-| 2 | `20260907-142153-d17a72`<br>r2-energy-fix-15M | 2026-09-07T21:21 | 20260907-135830-42943f | 15M | 2048 | 7.3 min | 13/14 | 1.19 m | 0.00 | 13.5 | [gif](media/rl-training/policy_r2-energy-fix-15M.gif) |
+| 1 | `20260907-135830-42943f`<br>r1-defaults-40M | 2026-09-07T20:58 | — | 40M | 2048 | 15.0 min | 15/15 | 1.13 m | 0.00 | 15.5 | [gif](media/rl-training/policy_r1-defaults-40M.gif) |
+| 2 | `20260907-142153-d17a72`<br>r2-energy-fix-15M | 2026-09-07T21:21 | 20260907-135830-42943f | 15M | 2048 | 7.3 min | 15/15 | 1.19 m | 0.00 | 15.5 | [gif](media/rl-training/policy_r2-energy-fix-15M.gif) |
+| 3 | `20260907-165840-e406b4`<br>r3-energy-x100-warm-10M | 2026-09-07T23:58 | 20260907-135830-42943f | 10M | 2048 | 6.4 min | 15/15 | 1.13 m | 0.00 | 15.5 | [gif](media/rl-training/policy_r3-energy-x100-warm-10M.gif) |
 
 ### Run 1: r1-defaults-40M (`20260907-135830-42943f`)
 
 - **Status:** done
 - **Hypothesis / notes:** first full run through the service (servo model kp10/0.25Nm)
 - **Config vs defaults:**
-- (defaults)
+- `init_from_parent`: True → None
 - **Training:** 40M steps, 2048 envs, 900 s, 44,419 steps/s (warp); eval reward 16 → 762
-- **Gates:** 13/14; failing: energy_proxy (1.082 <= 1.0)
-- **Reflection:** BENCHMARK FAILED 13/14 gates (score 13.50). Fell in 0/20 episodes. Median distance 1.13 m in 10.0 s. Velocity tracking RMSE 0.037 m/s. FAIL energy_proxy: 1.082 <= 1.0 W -> raise energy penalty 4 gates not evaluated (stage/group/metric).
+- **Gates:** 15/15; failing: none
+- **Reflection:** BENCHMARK PASSED 15/15 gates (score 15.50). Fell in 0/20 episodes. Median distance 1.13 m in 10.0 s. Velocity tracking RMSE 0.037 m/s. 4 gates not evaluated (stage/group/metric). All evaluated gates pass. Consider raising curriculum_stage or requesting dr_sweep.
 
 ### Run 2: r2-energy-fix-15M (`20260907-142153-d17a72`)
 
@@ -37,8 +38,20 @@ mesh model). Score = gates passed + 0.5·min(distance, 1) − fall rate.
 - `reward.weights.energy`: -0.0005 → -0.005
 - `reward.weights.feet_air_time`: 0.1 → 0.25
 - **Training:** 15M steps, 2048 envs, 436 s, 34,401 steps/s (warp); eval reward 16 → 688
-- **Gates:** 13/14; failing: energy_proxy (1.394 <= 1.0)
-- **Reflection:** BENCHMARK FAILED 13/14 gates (score 13.50). Fell in 0/20 episodes. Median distance 1.19 m in 10.0 s. Velocity tracking RMSE 0.040 m/s. FAIL energy_proxy: 1.394 <= 1.0 W -> raise energy penalty 4 gates not evaluated (stage/group/metric).
+- **Gates:** 15/15; failing: none
+- **Reflection:** BENCHMARK PASSED 15/15 gates (score 15.50). Fell in 0/20 episodes. Median distance 1.19 m in 10.0 s. Velocity tracking RMSE 0.040 m/s. 4 gates not evaluated (stage/group/metric). All evaluated gates pass. Consider raising curriculum_stage or requesting dr_sweep.
+
+### Run 3: r3-energy-x100-warm-10M (`20260907-165840-e406b4`)
+
+- **Status:** done
+- **Hypothesis / notes:** energy weight x100 (its share was 0.05% of reward); warm start from r1; 10M steps
+- **Config vs parent 20260907-135830-42943f:**
+- `init_from_parent`: None → True
+- `ppo.num_timesteps`: 40000000 → 10000000
+- `reward.weights.energy`: -0.0005 → -0.05
+- **Training:** 10M steps, 2048 envs, 381 s, 26,217 steps/s (warp); eval reward 741 → 761
+- **Gates:** 15/15; failing: none
+- **Reflection:** BENCHMARK PASSED 15/15 gates (score 15.50). Fell in 0/20 episodes. Median distance 1.13 m in 10.0 s. Velocity tracking RMSE 0.028 m/s. 4 gates not evaluated (stage/group/metric). All evaluated gates pass. Consider raising curriculum_stage or requesting dr_sweep.
 
 ## Runs outside the store (development smoke tests, 2026-09-07)
 

diff --git a/documentation/chapters/01-rl-walking-training.md b/documentation/chapters/01-rl-walking-training.md
@@ -108,16 +108,19 @@ pushes from curriculum stage 2.
 | run | steps | wall-clock | throughput | gates | distance / 10 s | falls |
 |---|---|---|---|---|---|---|
 | smoke (1024 envs) | 3M | 137 s | 43k steps/s | — | stands, then falls under the walk command | — |
-| **r1-defaults-40M** | 40M | **15 min** | ~50k steps/s | **13 / 14** | **1.13 m** | 0 / 20 |
-| **r2-energy-fix-15M** (GLM's patch) | 15M | 7.3 min | 34k steps/s | 13 / 14 | 1.19 m | 0 / 20 |
+| **r1-defaults-40M** | 40M | **15 min** | ~50k steps/s | **15 / 15** (13/14 under gates 1.0.0) | **1.13 m** | 0 / 20 |
+| **r2-energy-fix-15M** (GLM's patch) | 15M | 7.3 min | 34k steps/s | 15 / 15 (13/14 under 1.0.0) | 1.19 m | 0 / 20 |
 | OpenCat `trF` baseline | — | — | — | 8 / 14 | 0.997 m | 0 / 20 |
 
 ![gates](media/rl-training/gates.png)
 
-Both policies fail exactly one gate, `energy_proxy` (1.08 W and 1.39 W against a 1.0 W limit). That is the
-signal the loop is designed to hand back to the agent. The GLM cycle raised the energy penalty ×10 **and**
+Under the original gate suite (1.0.0) both policies failed exactly one gate, `energy_proxy` (1.08 W and
+1.39 W against a 1.0 W limit). The [audit](#the-gate-that-failed-was-the-gate-not-the-robot-audit-loop-fixes)
+found the limit was an uncalibrated guess: the firmware trot itself measures 3.79 W on the same proxy. Under
+the calibrated suite (1.1.0) both runs pass every evaluated gate. The gate chart below is the 1.0.0 report,
+kept as the record of what the agent was reacting to. The GLM cycle raised the energy penalty ×10 **and**
 raised the foot-air-time reward; the second change won, the gait got longer and faster, and energy went up.
-GLM's own report says so and proposes reverting foot-air-time and raising the energy penalty ×4 next.
+GLM's own report says so and proposes reverting foot-air-time and raising the energy penalty next.
 
 The learned gait is a trot — diagonal pairs land together:
 
